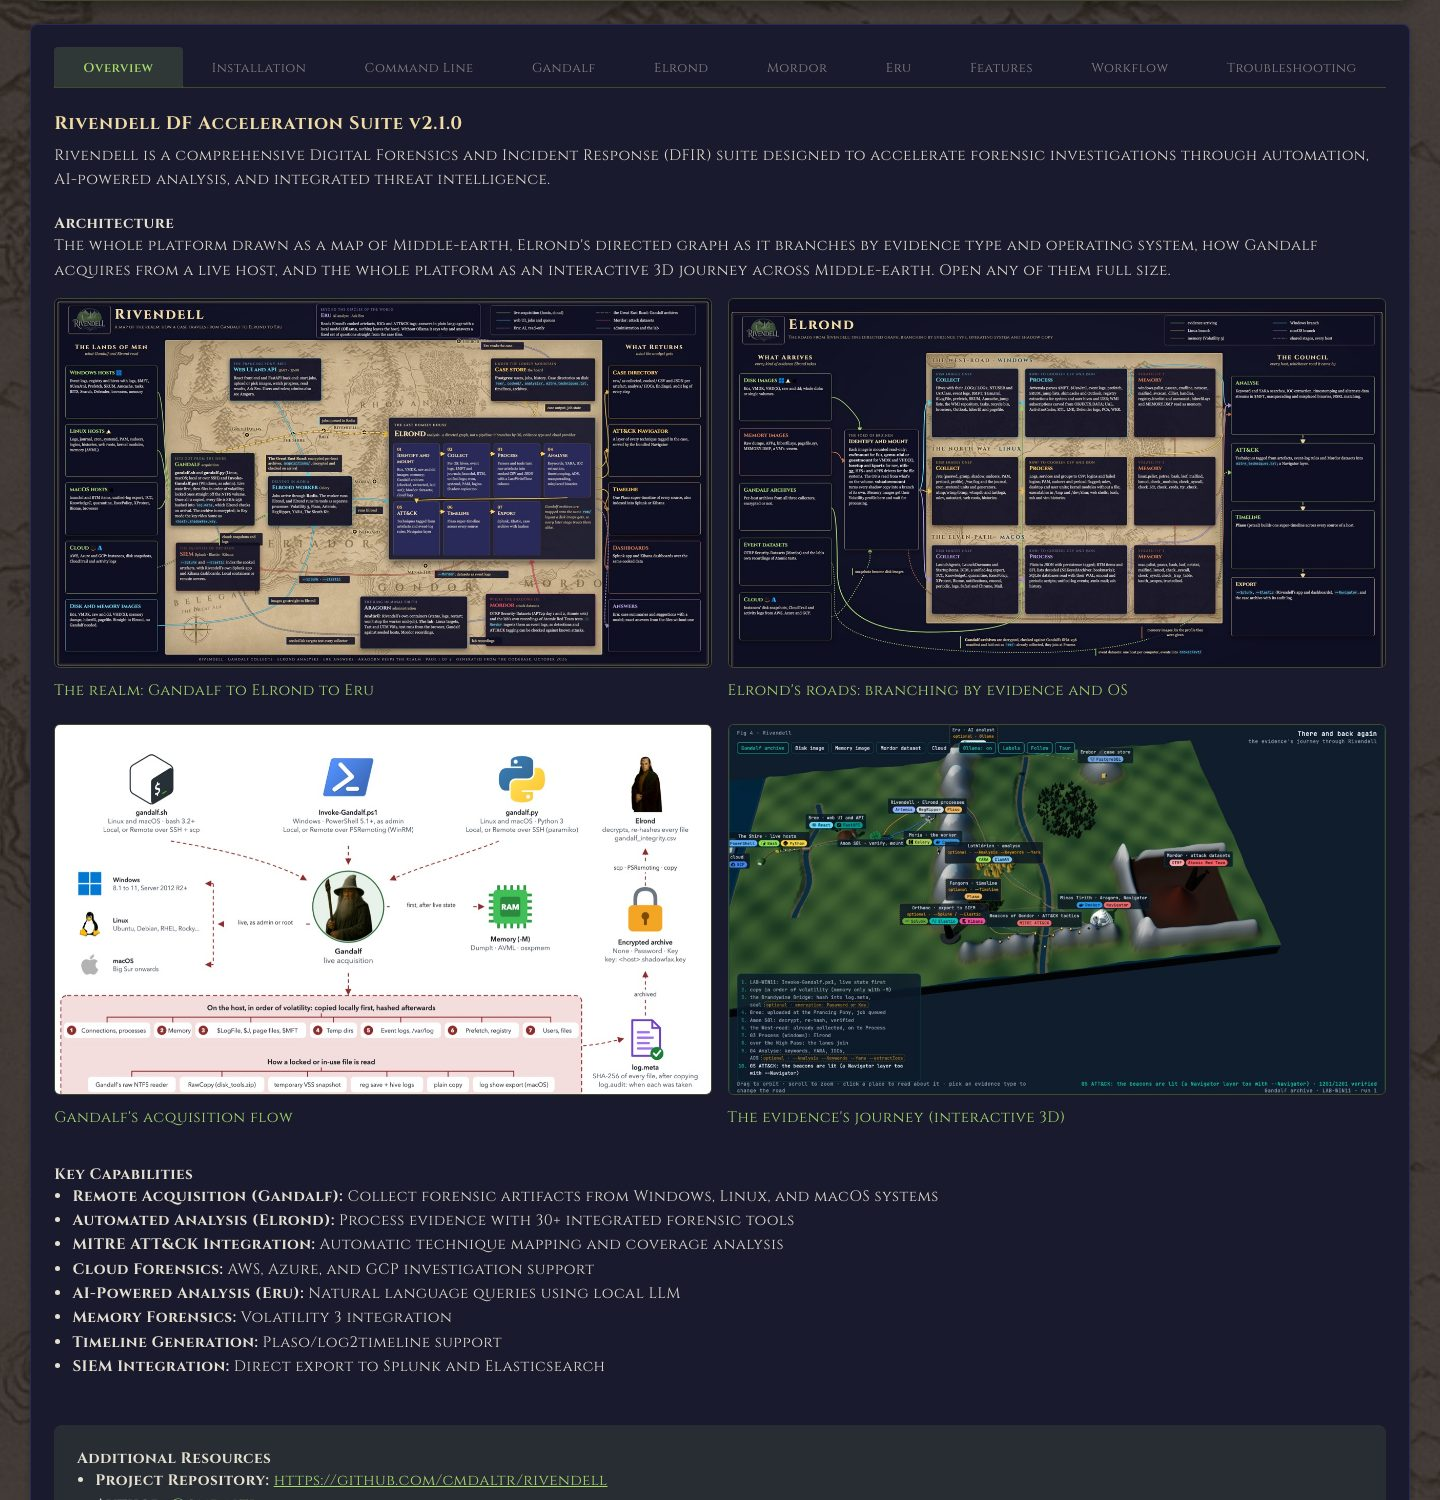
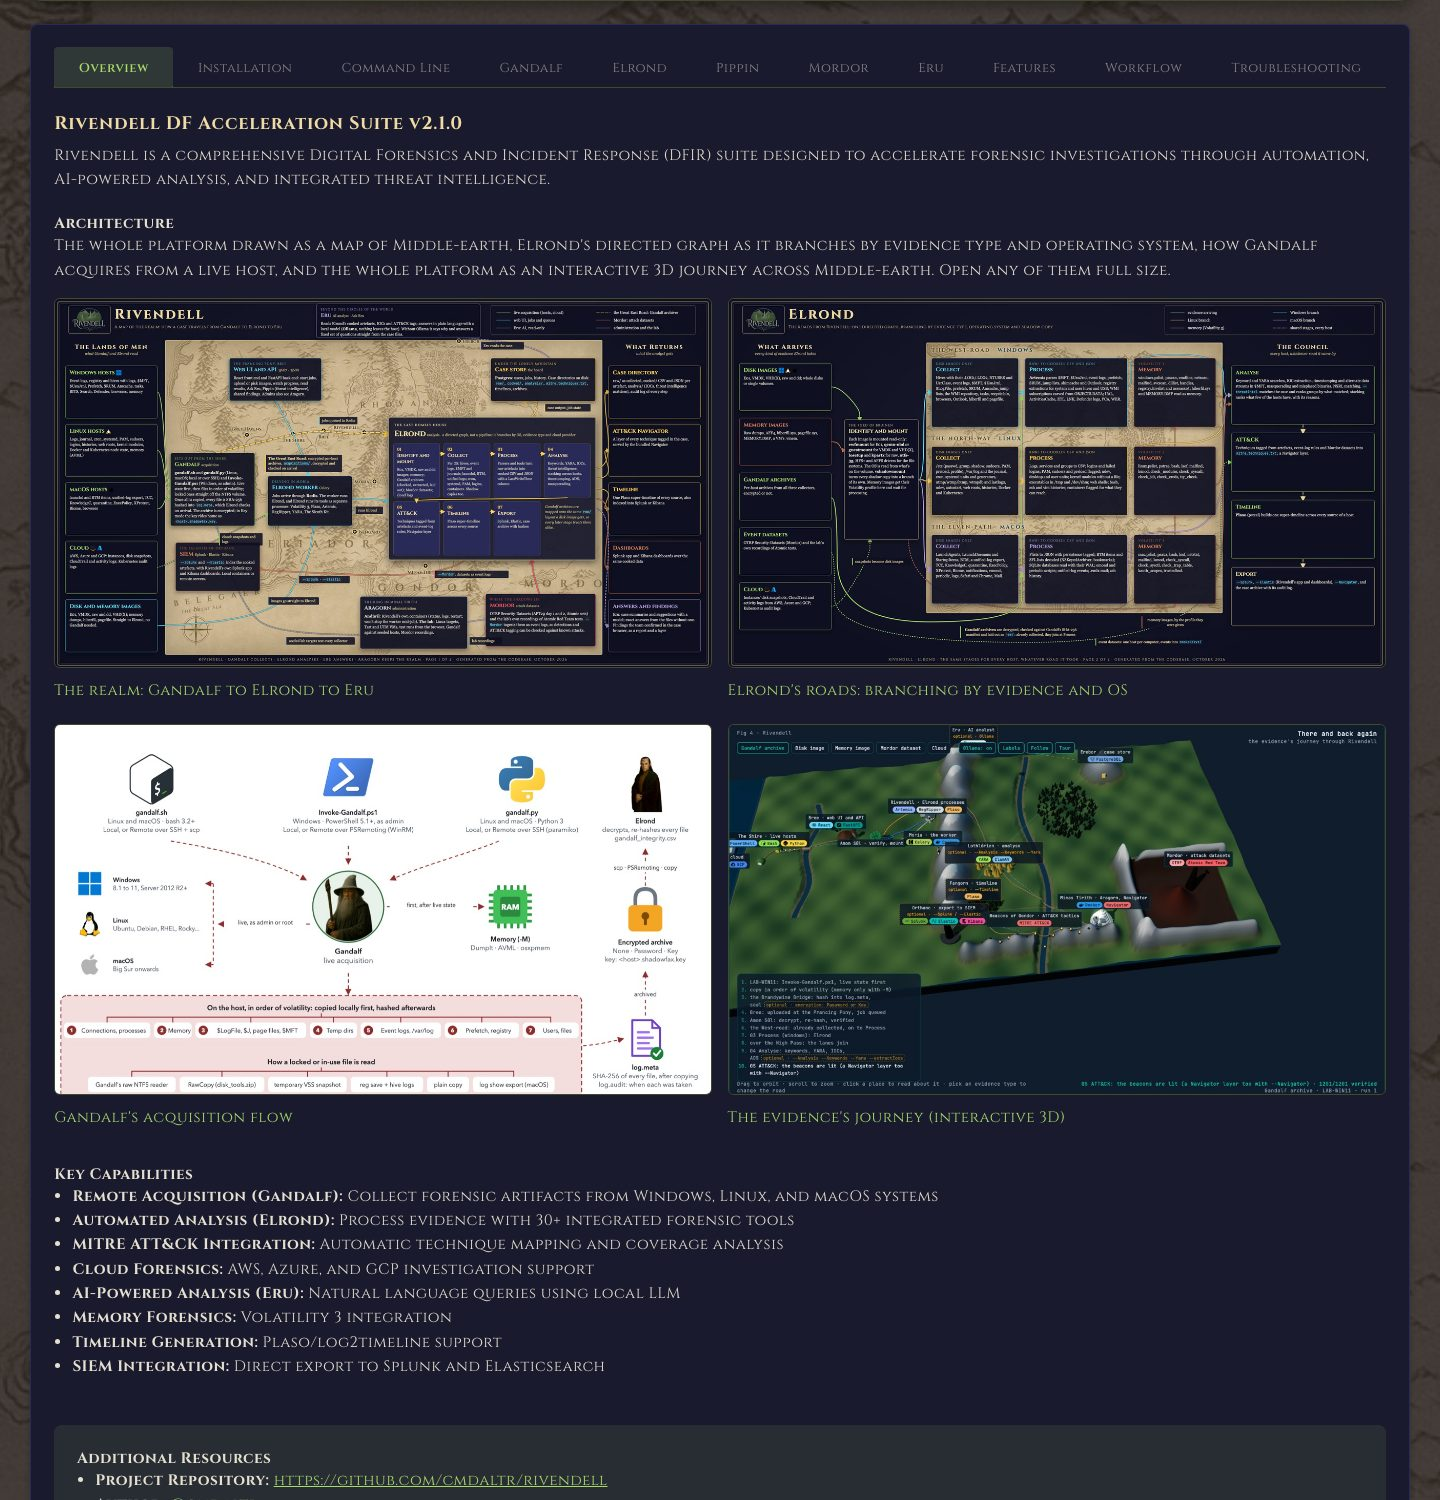
feat(web): the Doors of Durin open the welcome, in place of the lightbulb
A lightbulb top right reads as a light/dark theme switch, and it only spoke for the tip.
The doors are the welcome: speak, friend, and enter. Tooltip "Welcome: the guide and a tip".
The guide's photographs are retaken with it, and now include the case browser and Pippin.

Claude-Session: https://claude.ai/code/session_01TdsyJeZN2QPQMRpu8yEzJL

diff --git a/src/web/frontend/src/App.js b/src/web/frontend/src/App.js
@@ -60,11 +60,13 @@ function Navigation({ onGuide, onWelcome }) {
           </svg>
           <span>Log out</span>
         </button>
-        <button type="button" className="nav-welcome" onClick={onWelcome} title="Welcome, guide and a tip" aria-label="Show the welcome, guide and a tip">
+        <button type="button" className="nav-welcome" onClick={onWelcome} title="Welcome: the guide and a tip" aria-label="Show the welcome: the guide and a tip">
           <svg width="18" height="18" viewBox="0 0 24 24" fill="none" stroke="currentColor" strokeWidth="2" strokeLinecap="round" strokeLinejoin="round">
-            <path d="M9 18h6" />
-            <path d="M10 22h4" />
-            <path d="M12 2a7 7 0 0 0-4 12.7c.6.5 1 1.3 1 2.1V17h6v-.2c0-.8.4-1.6 1-2.1A7 7 0 0 0 12 2z" />
+            {/* The Doors of Durin: speak, friend, and enter */}
+            <path d="M5 22V11a7 7 0 0 1 14 0v11" />
+            <path d="M3 22h18" />
+            <path d="M12 14v8" />
+            <path d="M12 6.5v3M10.5 8h3" />
           </svg>
         </button>
       </div>

diff --git a/src/web/frontend/src/components/StartOffer.js b/src/web/frontend/src/components/StartOffer.js
@@ -18,7 +18,7 @@ const NOT_YET = ['/login', '/register', '/forgot-password', '/reset-password'];
 
 /**
  * At start-up: a quote, then the guide on offer and a tip side by side, each with its own "every start" tickbox.
- * The navigation's Guide link opens the guide directly (guideRequested); its lightbulb opens this (offerRequested).
+ * The navigation's Guide link opens the guide directly (guideRequested); its Doors of Durin open this (offerRequested).
  */
 function StartOffer({ guideRequested, onGuideClosed, offerRequested, onOfferClosed }) {
   const { user, loading } = useAuth();
@@ -40,7 +40,7 @@ function StartOffer({ guideRequested, onGuideClosed, offerRequested, onOfferClos
     if (wanted.guide || wanted.tips) setOffer(true);
   }, [loading, pathname, user]);
 
-  // The lightbulb in the navigation: the welcome, with a fresh tip, whatever the tickboxes say
+  // The Doors of Durin in the navigation: the welcome, with a fresh tip, whatever the tickboxes say
   useEffect(() => {
     if (!offerRequested) return;
     setPrefs(startPrefs(user));

diff --git a/src/web/frontend/src/guide/prefs.js b/src/web/frontend/src/guide/prefs.js
@@ -46,7 +46,7 @@ export function nextTip(user, exclude) {
 
 // Once per start, where a start is the first visit after a twelve-hour gap. Kept in localStorage,
 // not sessionStorage: a session doesn't survive new tabs or the desktop app's reloads, so the
-// offer kept coming back. The lightbulb in the navigation shows it on demand.
+// offer kept coming back. The Doors of Durin in the navigation show it on demand.
 const OFFERED = 'rivendell.offeredAt';
 const START_GAP_MS = 12 * 60 * 60 * 1000;
 
